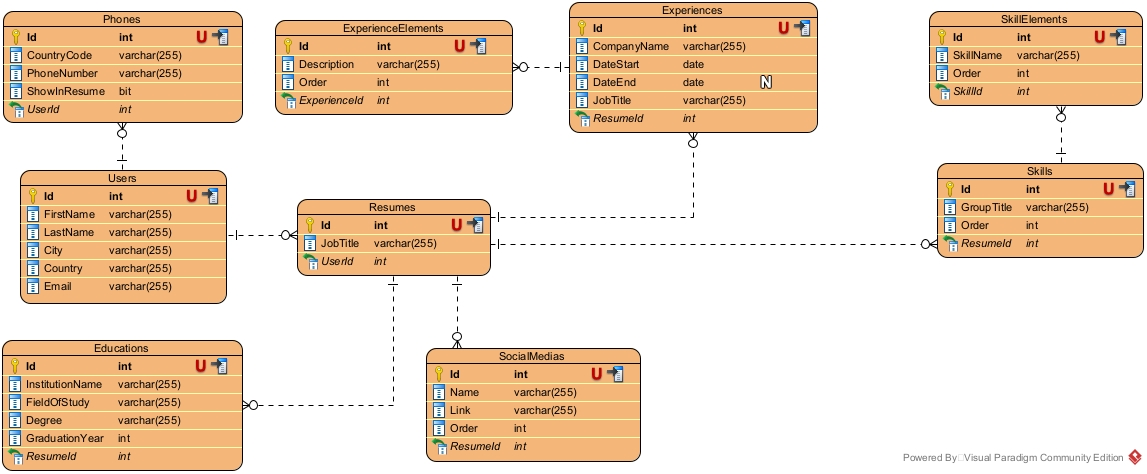
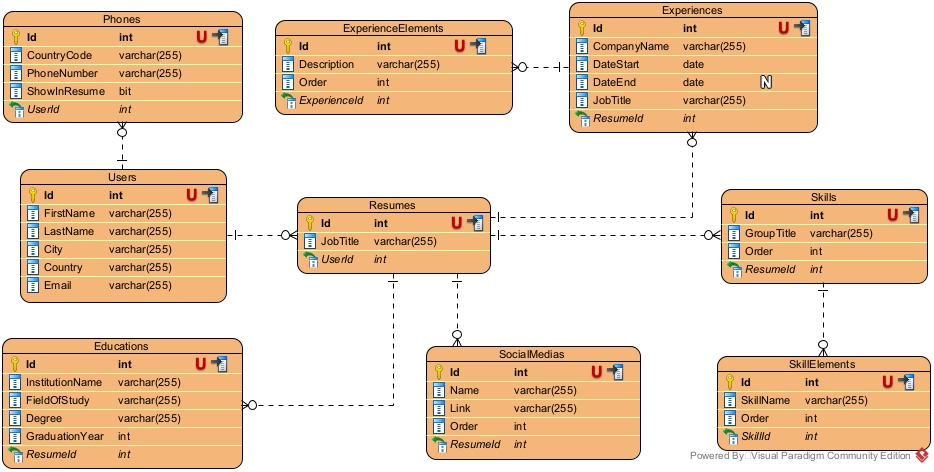
Refactor the entities and app db context.

diff --git a/ResumeMakerApi/ResumeMakerApi/Source/Infrastructure/AppDbContext.cs b/ResumeMakerApi/ResumeMakerApi/Source/Infrastructure/AppDbContext.cs
@@ -1,0 +1,25 @@
+using Microsoft.EntityFrameworkCore;
+using ResumeMakerApi.Source.Entities;
+
+namespace ResumeMakerApi.Source.Infrastructure;
+
+public class AppDbContext(DbContextOptions<AppDbContext> options) : DbContext(options)
+{
+    public DbSet<Education> Educations { get; set; }
+
+    public DbSet<Experience> Experiences { get; set; }
+
+    public DbSet<ExperienceElement> ExperienceElements { get; set; }
+
+    public DbSet<Phone> Phones { get; set; }
+
+    public DbSet<Resume> Resumes { get; set; }
+
+    public DbSet<Skill> Skills { get; set; }
+
+    public DbSet<SkillElement> SkillElements { get; set; }
+
+    public DbSet<SocialMedia> SocialMedias { get; set; }
+
+    public DbSet<User> Users { get; set; }
+}

diff --git a/ResumeMakerApi/ResumeMakerApi/Migrations/20260703201659_RefactorTheSkillsTable.cs b/ResumeMakerApi/ResumeMakerApi/Migrations/20260703201659_RefactorTheSkillsTable.cs
@@ -1,0 +1,22 @@
+using Microsoft.EntityFrameworkCore.Migrations;
+
+#nullable disable
+
+namespace ResumeMakerApi.Migrations
+{
+    /// <inheritdoc />
+    public partial class RefactorTheSkillsTable : Migration
+    {
+        /// <inheritdoc />
+        protected override void Up(MigrationBuilder migrationBuilder)
+        {
+
+        }
+
+        /// <inheritdoc />
+        protected override void Down(MigrationBuilder migrationBuilder)
+        {
+
+        }
+    }
+}

diff --git a/ResumeMakerApi/ResumeMakerApi/Source/Entities/Skill.cs b/ResumeMakerApi/ResumeMakerApi/Source/Entities/Skill.cs
@@ -1,13 +1,16 @@
-using ResumeMakerApi.Source.Entities;
-
-namespace ResumeMakerApi.Source.Entity;
+namespace ResumeMakerApi.Source.Entities;
 
 public class Skill
 {
     public int Id { get; set; }
+
     public string GroupTitle { get; set; } = string.Empty;
+
     public int Order { get; set; }
+
     public int ResumeId { get; set; }
-    public Resume Resume { get; set; } = null!;
+
+    public Resume Resume { get; set; } = new();
+
     public List<SkillElement> SkillElements { get; set; } = [];
 }

diff --git a/ResumeMakerApi/ResumeMakerApi/Source/Entities/SkillElement.cs b/ResumeMakerApi/ResumeMakerApi/Source/Entities/SkillElement.cs
@@ -1,10 +1,14 @@
-namespace ResumeMakerApi.Source.Entity;
+namespace ResumeMakerApi.Source.Entities;
 
 public class SkillElement
 {
     public int Id { get; set; }
+
     public string SkillName { get; set; } = string.Empty;
+
     public int Order { get; set; }
+
     public int SkillId { get; set; }
-    public Skill Skill { get; set; } = null!;
+
+    public Skill Skill { get; set; } = new();
 }

diff --git a/ResumeMakerApi/ResumeMakerApi/Source/Entities/Resume.cs b/ResumeMakerApi/ResumeMakerApi/Source/Entities/Resume.cs
@@ -1,6 +1,4 @@
-using ResumeMakerApi.Source.Entity;
-
-namespace ResumeMakerApi.Source.Entities;
+namespace ResumeMakerApi.Source.Entities;
 
 public class Resume
 {